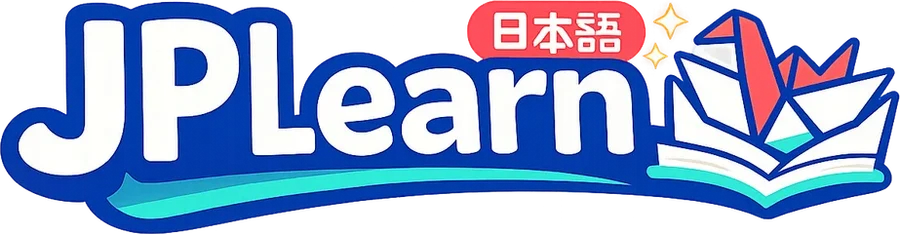
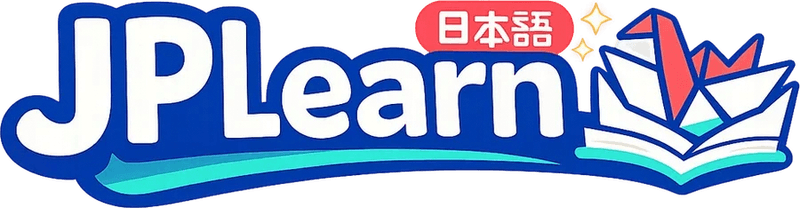
Fix button label concatenation, add FAQ schema, mobile nav menu, right-size images
- Separate compound button/link labels (span + small) with a real space so
  screen readers and copy/paste don't run them together, e.g.
  "Get notified on GitHubWatch this repo" -> "Get notified on GitHub Watch
  this repo" (#8).
- Emit schema.org FAQPage JSON-LD generated from the existing faqItems array,
  making the FAQ section eligible for Google rich results (#11).
- Add a mobile hamburger menu (SiteNav) so "Why JPLearn", "How it works", and
  "FAQ" are reachable below 760px instead of silently disappearing with no
  alternative (#10).
- Right-size and recompress jplearn-lockup.png (900x234/285KB -> 800x208/76KB)
  and jplearn-icon.png (256x256/38KB -> 128x128/5KB) via palette PNG
  quantization, cutting the priority-loaded hero image (likely the LCP
  element) by ~73% with no visible quality loss (#9).

Fixes #8, #9, #10, #11.

Changed region(s): [[0.8438, 0.7212, 0.875, 0.75]]

diff --git a/app/page.tsx b/app/page.tsx
@@ -1,6 +1,6 @@
 "use client";
 
-import { useEffect, useRef, type ReactNode } from "react";
+import { useEffect, useRef, useState, type ReactNode } from "react";
 import Image from "next/image";
 import dynamic from "next/dynamic";
 
@@ -50,14 +50,13 @@ function Logo({ compact = false }: { compact?: boolean }) {
 }
 
 function BrandMark() {
-  return <span className="brand-mark" aria-hidden="true"><Image src="/jplearn-icon.png" width={256} height={256} unoptimized alt="" /></span>;
+  return <span className="brand-mark" aria-hidden="true"><Image src="/jplearn-icon.png" width={128} height={128} unoptimized alt="" /></span>;
 }
 
 function DownloadButton({ final = false }: { final?: boolean }) {
   return (
     <button className={final ? "button button--paper" : "button button--primary"} disabled>
-      <span>Download JPLearn</span>
-      <small>Coming soon</small>
+      <span>Download JPLearn</span> <small>Coming soon</small>
     </button>
   );
 }
@@ -65,8 +64,7 @@ function DownloadButton({ final = false }: { final?: boolean }) {
 function WatchButton({ subtle = false }: { subtle?: boolean }) {
   return (
     <a className={subtle ? "button button--ghost" : "button button--primary"} href={GITHUB_WATCH_URL} target="_blank" rel="noreferrer">
-      <span>Get notified on GitHub</span>
-      <small>Watch this repo</small>
+      <span>Get notified on GitHub</span> <small>Watch this repo</small>
     </a>
   );
 }
@@ -267,6 +265,20 @@ function FaqList() {
   );
 }
 
+function FaqStructuredData() {
+  const structuredData = {
+    "@context": "https://schema.org",
+    "@type": "FAQPage",
+    mainEntity: faqItems.map(([question, answer]) => ({
+      "@type": "Question",
+      name: question,
+      acceptedAnswer: { "@type": "Answer", text: answer },
+    })),
+  };
+
+  return <script type="application/ld+json" dangerouslySetInnerHTML={{ __html: JSON.stringify(structuredData) }} />;
+}
+
 function FeatureRow({ id, eyebrow, title, description, media, reverse = false }: { id?: string; eyebrow: string; title: ReactNode; description: string; media: ReactNode; reverse?: boolean }) {
   return (
     <section className={reverse ? "feature-row feature-row--reverse section" : "feature-row section"} id={id}>
@@ -277,6 +289,44 @@ function FeatureRow({ id, eyebrow, title, description, media, reverse = false }:
       </div>
       <div className="feature-row__media reveal">{media}</div>
     </section>
+  );
+}
+
+function SiteNav() {
+  const [isMenuOpen, setIsMenuOpen] = useState(false);
+
+  useEffect(() => {
+    if (!isMenuOpen) return;
+    const onKeyDown = (event: KeyboardEvent) => {
+      if (event.key === "Escape") setIsMenuOpen(false);
+    };
+    document.addEventListener("keydown", onKeyDown);
+    return () => document.removeEventListener("keydown", onKeyDown);
+  }, [isMenuOpen]);
+
+  const closeMenu = () => setIsMenuOpen(false);
+
+  return (
+    <header className="nav-wrap">
+      <nav className="nav" aria-label="Main navigation">
+        <a href="#top" className="brand-link" aria-label="JPLearn home" onClick={closeMenu}><Logo /></a>
+        <div className={isMenuOpen ? "nav-links nav-links--open" : "nav-links"} id="nav-links">
+          <a href="#why" onClick={closeMenu}>Why JPLearn</a><a href="#how-it-works" onClick={closeMenu}>How it works</a><a href="#faq" onClick={closeMenu}>FAQ</a>
+          <a href={GITHUB_URL} target="_blank" rel="noreferrer" onClick={closeMenu}>GitHub</a>
+        </div>
+        <button
+          type="button"
+          className="nav-toggle"
+          aria-expanded={isMenuOpen}
+          aria-controls="nav-links"
+          aria-label={isMenuOpen ? "Close menu" : "Open menu"}
+          onClick={() => setIsMenuOpen((open) => !open)}
+        >
+          <span />
+        </button>
+        <button className="nav-download" disabled><span>Download</span> <small>Soon</small></button>
+      </nav>
+    </header>
   );
 }
 
@@ -325,16 +375,7 @@ export default function Home() {
       <div className="washi-grain" aria-hidden="true" />
       <div className="page-progress" aria-hidden="true" />
       <a className="skip-link" href="#main">Skip to content</a>
-      <header className="nav-wrap">
-        <nav className="nav" aria-label="Main navigation">
-          <a href="#top" className="brand-link" aria-label="JPLearn home"><Logo /></a>
-          <div className="nav-links">
-            <a href="#why">Why JPLearn</a><a href="#how-it-works">How it works</a><a href="#faq">FAQ</a>
-            <a href={GITHUB_URL} target="_blank" rel="noreferrer">GitHub</a>
-          </div>
-          <button className="nav-download" disabled><span>Download</span><small>Soon</small></button>
-        </nav>
-      </header>
+      <SiteNav />
 
       <main id="main">
         <section className="hero" id="top">
@@ -345,7 +386,7 @@ export default function Home() {
             <span className="hero-tategaki" lang="ja"><b>学びを、前へ。</b><small>毎日、少しずつ。</small></span>
           </div>
           <div className="hero-copy reveal is-visible">
-            <Image className="hero-logo" src="/jplearn-lockup.png" width={900} height={234} priority unoptimized alt="JPLearn" />
+            <Image className="hero-logo" src="/jplearn-lockup.png" width={800} height={208} priority unoptimized alt="JPLearn" />
             <span className="kicker"><i /> JAPANESE, WITH DIRECTION · 学びの道</span>
             <h1>Learn Japanese.<br /><em>Keep moving forward.</em></h1>
             <p>Lessons, reviews, games and handwriting practice—plus an AI tutor that runs locally on your machine, not in the cloud. One focused desktop app, not five browser tabs.</p>
@@ -420,6 +461,7 @@ export default function Home() {
             <h2>Questions worth<br />answering honestly.</h2>
           </div>
           <div className="reveal"><FaqList /></div>
+          <FaqStructuredData />
         </section>
 
         <section className="closing-section section" id="kickstarter">
@@ -429,7 +471,7 @@ export default function Home() {
             <p>JPLearn is developed in the open on GitHub. Watch the repo to see progress land, weigh in on platforms and features, and hear about the Kickstarter the moment it opens.</p>
             <div className="closing-actions">
               <WatchButton />
-              <button className="button button--ghost" disabled><span>View the Kickstarter</span><small>Coming soon</small></button>
+              <button className="button button--ghost" disabled><span>View the Kickstarter</span> <small>Coming soon</small></button>
             </div>
           </div>
         </section>

diff --git a/app/globals.css b/app/globals.css
@@ -42,7 +42,16 @@ button:disabled { cursor: not-allowed; }
 .reveal.is-visible { opacity: 1; transform: none; filter: none; }
 
 .nav-wrap { position: fixed; z-index: 90; top: 0; left: 0; right: 0; padding: 1.25rem max(3vw, 1rem); pointer-events: none; }
-.nav { pointer-events: auto; width: min(72rem, 100%); margin: 0 auto; display: grid; grid-template-columns: auto 1fr auto; align-items: center; gap: 2rem; padding: .7rem .8rem .7rem 1rem; border: 1px solid rgba(255,255,255,.12); border-radius: 1rem; background: rgba(12,13,13,.62); backdrop-filter: blur(18px) saturate(130%); box-shadow: 0 1rem 4rem rgba(0,0,0,.18); transition: padding .35s, background .35s, transform .35s; }
+.nav { position: relative; pointer-events: auto; width: min(72rem, 100%); margin: 0 auto; display: grid; grid-template-columns: auto 1fr auto; align-items: center; gap: 2rem; padding: .7rem .8rem .7rem 1rem; border: 1px solid rgba(255,255,255,.12); border-radius: 1rem; background: rgba(12,13,13,.62); backdrop-filter: blur(18px) saturate(130%); box-shadow: 0 1rem 4rem rgba(0,0,0,.18); transition: padding .35s, background .35s, transform .35s; }
+.nav-toggle { display: none; width: 2.3rem; height: 2.3rem; align-items: center; justify-content: center; border: 1px solid rgba(255,255,255,.14); border-radius: .55rem; background: rgba(255,255,255,.04); color: rgba(255,255,255,.78); }
+.nav-toggle span, .nav-toggle span::before, .nav-toggle span::after { content: ""; display: block; width: 1rem; height: 1px; background: currentColor; }
+.nav-toggle span { position: relative; }
+.nav-toggle span::before, .nav-toggle span::after { position: absolute; left: 0; transition: transform .2s; }
+.nav-toggle span::before { top: -.32rem; }
+.nav-toggle span::after { top: .32rem; }
+.nav-toggle[aria-expanded="true"] span { background: transparent; }
+.nav-toggle[aria-expanded="true"] span::before { top: 0; transform: rotate(45deg); }
+.nav-toggle[aria-expanded="true"] span::after { top: 0; transform: rotate(-45deg); }
 .is-scrolled .nav { padding-top: .5rem; padding-bottom: .5rem; background: rgba(10,11,11,.88); transform: translateY(-.25rem); }
 .brand-link { color: inherit; text-decoration: none; }
 .brand { display: inline-flex; align-items: center; gap: .7rem; font-weight: 760; letter-spacing: -.04em; font-size: 1.05rem; white-space: nowrap; }
@@ -300,9 +309,12 @@ footer p { margin-right: auto; }
 @media (max-width: 760px) {
   .section, .feature-row { padding: 4.5rem 1.25rem; }
   .nav-wrap { padding: .7rem; }
-  .nav { grid-template-columns: auto 1fr auto; gap: .75rem; padding-left: .75rem; border-radius: .8rem; }
-  .nav-links { justify-content: flex-end; }
-  .nav-links a { display: none; }.nav-links a:last-child { display: inline; }
+  .nav { grid-template-columns: auto 1fr auto auto; gap: .6rem; padding-left: .75rem; border-radius: .8rem; }
+  .nav-toggle { display: inline-flex; }
+  .nav-links { position: absolute; z-index: 10; top: calc(100% + .6rem); left: 0; right: 0; flex-direction: column; align-items: stretch; gap: 0; padding: .4rem; border: 1px solid rgba(255,255,255,.12); border-radius: .8rem; background: rgba(10,11,11,.96); backdrop-filter: blur(18px) saturate(130%); box-shadow: 0 1rem 3rem rgba(0,0,0,.3); opacity: 0; visibility: hidden; transform: translateY(-.4rem); transition: opacity .2s, transform .2s, visibility .2s; }
+  .nav-links a { display: block; padding: .85rem .9rem; font-size: .82rem; border-radius: .5rem; }
+  .nav-links a:hover { background: rgba(255,255,255,.06); }
+  .nav-links--open { opacity: 1; visibility: visible; transform: translateY(0); }
   .nav-download { min-width: auto; }.nav-download span { display: none; }
   .brand { font-size: .92rem; }.brand-mark { width: 1.5rem; height: 1.5rem; }
   .hero { min-height: auto; padding: 8.5rem 1.25rem 4rem; }
